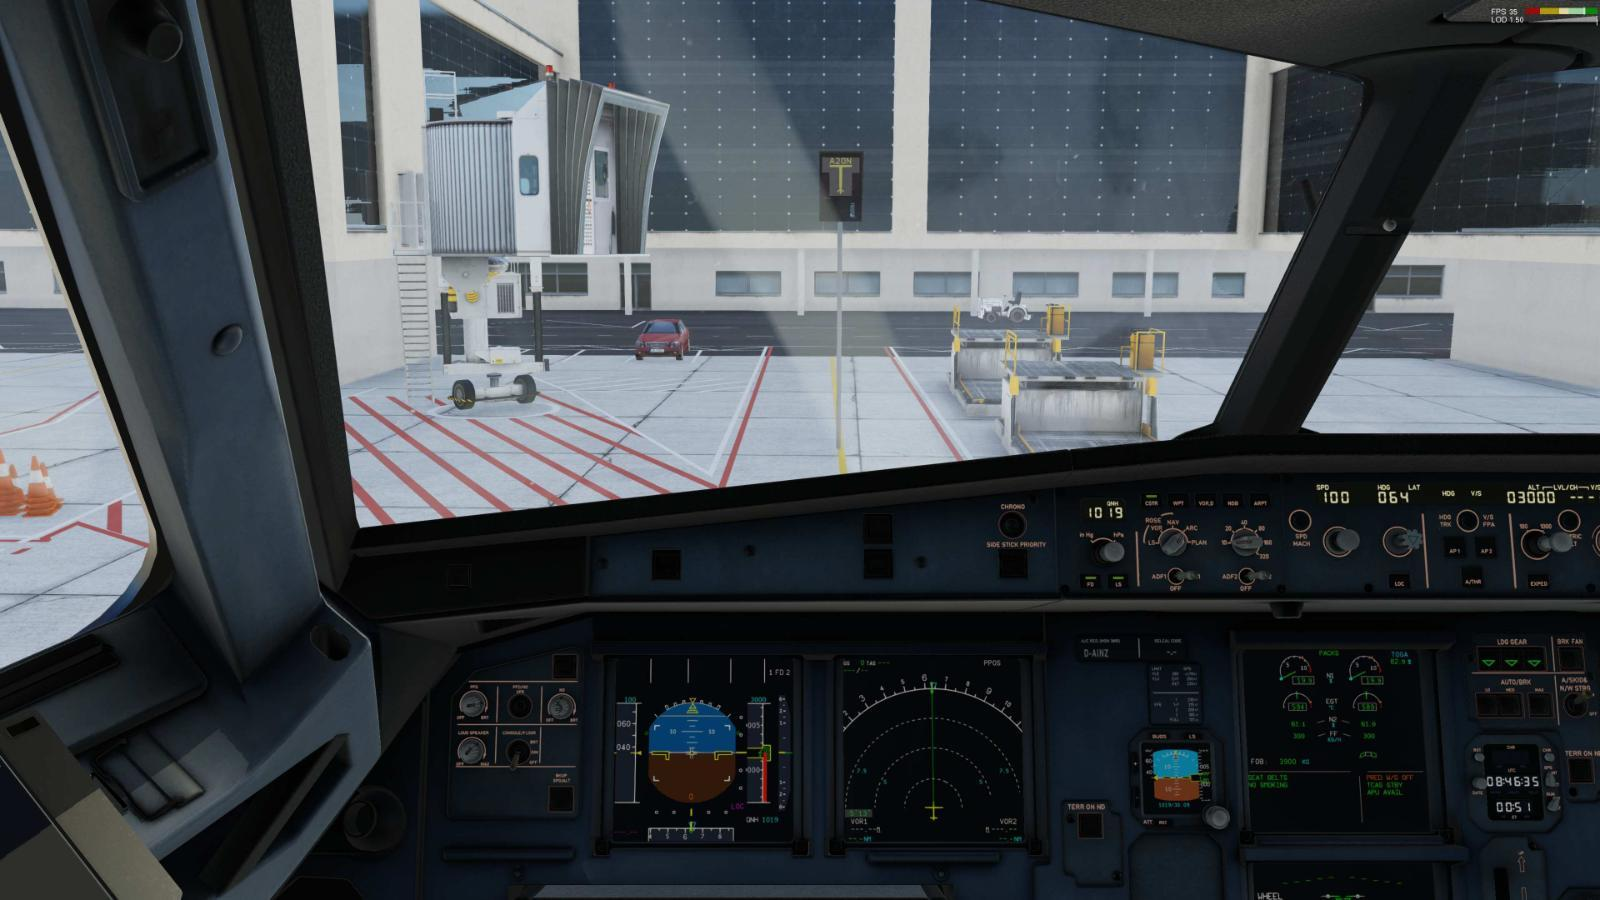
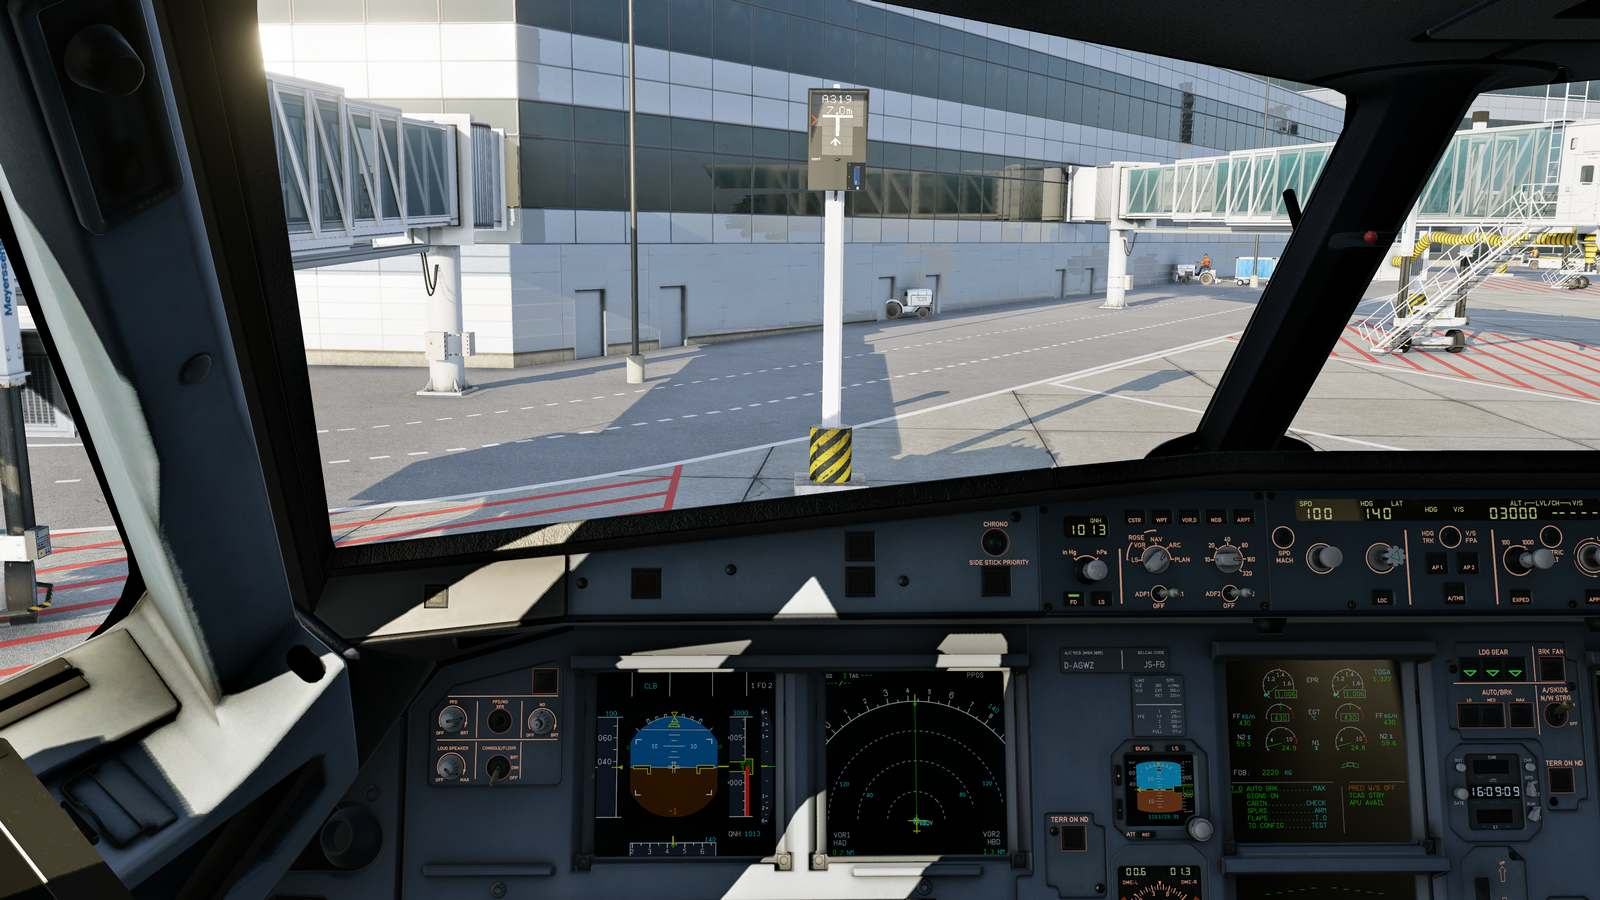
place pole_base obj

diff --git a/autodgs.cpp b/autodgs.cpp
@@ -67,7 +67,7 @@ XPLMDataRef percent_lights_dr, xp_version_dr, eng_running_dr, sin_wave_dr;
 XPLMDataRef vr_enabled_dr, ground_speed_dr;
 static XPLMDataRef zulu_time_minutes_dr, zulu_time_hours_dr;
 XPLMProbeRef probe_ref;
-XPLMObjectRef dgs_obj[2];
+XPLMObjectRef dgs_obj[2], pole_base_obj;
 
 float now;           // current timestamp
 int on_ground;
@@ -251,8 +251,7 @@ MenuCb([[maybe_unused]] void *menu_ref, void *item_ref)
 }
 
 // =========================== plugin entry points ===============================================
-PLUGIN_API int
-XPluginStart(char *outName, char *outSig, char *outDesc)
+PLUGIN_API int XPluginStart(char *outName, char *outSig, char *outDesc)
 {
     strcpy(outName, "AutoDGS " VERSION);
     strcpy(outSig,  "hotbso.AutoDGS");
@@ -304,7 +303,7 @@ XPluginStart(char *outName, char *outSig, char *outDesc)
     zulu_time_minutes_dr = XPLMFindDataRef("sim/cockpit2/clock_timer/zulu_time_minutes");
     zulu_time_hours_dr = XPLMFindDataRef("sim/cockpit2/clock_timer/zulu_time_hours");
 
-    // // these are served via instancing
+    // these are served via instancing
     for (int i = 0; i < DGS_DR_NUM; i++)
         XPLMRegisterDataAccessor(dgs_dlist_dr[i], xplmType_Float, 0, NULL, NULL, GetDgsFloat,
                                  NULL, NULL, NULL, NULL, NULL, NULL, NULL, NULL, NULL, (void *)0, 0);
@@ -335,13 +334,20 @@ XPluginStart(char *outName, char *outSig, char *outDesc)
     }
 
     for (int i = 0; i < 2; i++) {
-        std::string on = base_dir + "/resources/" + obj_name[i];
+        std::string on = base_dir + "resources/" + obj_name[i];
         dgs_obj[i] = XPLMLoadObject(on.c_str());
 
         if (dgs_obj[i] == NULL) {
             LogMsg("error loading obj: %s", on.c_str());
             return 0;
         }
+    }
+
+    std::string on = base_dir + "resources/pole_base.obj";
+    pole_base_obj = XPLMLoadObject(on.c_str());
+    if (pole_base_obj == NULL) {
+        LogMsg("error loading obj: %s", on.c_str());
+        return 0;
     }
 
     // own commands

diff --git a/airport.cpp b/airport.cpp
@@ -181,6 +181,7 @@ Stand::Stand(const AptStand& as, float elevation, int dgs_type, float dgs_dist) 
     drawinfo_.heading = as_.hdgt;
     drawinfo_.pitch = drawinfo_.roll = 0.0f;
     vdgs_inst_ref_ = nullptr;
+    pole_base_inst_ref_ = nullptr;
 
     marshaller_max_dist_ = kDgsMaxDist;
 
@@ -196,6 +197,8 @@ Stand::Stand(const AptStand& as, float elevation, int dgs_type, float dgs_dist) 
 Stand::~Stand() {
     if (vdgs_inst_ref_)
         XPLMDestroyInstance(vdgs_inst_ref_);
+    if (pole_base_inst_ref_)
+        XPLMDestroyInstance(pole_base_inst_ref_);
 }
 
 void Stand::SetDgsType(int dgs_type) {
@@ -213,11 +216,18 @@ void Stand::SetDgsType(int dgs_type) {
         if (vdgs_inst_ref_)
             XPLMDestroyInstance(vdgs_inst_ref_);
         vdgs_inst_ref_ = nullptr;
+
+        if (pole_base_inst_ref_)
+            XPLMDestroyInstance(pole_base_inst_ref_);
+        pole_base_inst_ref_ = nullptr;
+
         SetDgsDist();
     } else {
+        static const char* null_dlist[] = {nullptr};
         marshaller = nullptr;
-        SetDgsDist();
         vdgs_inst_ref_ = XPLMCreateInstance(dgs_obj[kVDGS], dgs_dlist_dr);
+        pole_base_inst_ref_ = XPLMCreateInstance(pole_base_obj, null_dlist);
+        SetDgsDist();
         SetIdle();
     }
 }
@@ -358,8 +368,11 @@ void Stand::SetDgsDist() {
     drawinfo_.x = probeinfo.locationX;
     drawinfo_.y = probeinfo.locationY;
     drawinfo_.z = probeinfo.locationZ;
-    if (dgs_type_ == kVDGS)
+    if (dgs_type_ == kVDGS) {
+        assert(pole_base_inst_ref_ != nullptr);
+        XPLMInstanceSetPosition(pole_base_inst_ref_, &drawinfo_, nullptr);
         drawinfo_.y += kVdgsDefaultHeight;
+    }
 }
 
 // adjust may be negative to move it closer

diff --git a/autodgs.h b/autodgs.h
@@ -135,7 +135,7 @@ extern XPLMDataRef ground_speed_dr;
 extern XPLMCommandRef cycle_dgs_cmdr, move_dgs_closer_cmdr, activate_cmdr,
     toggle_ui_cmdr, toggle_jetway_cmdr;
 extern XPLMProbeRef probe_ref;
-extern XPLMObjectRef dgs_obj[2];
+extern XPLMObjectRef dgs_obj[2], pole_base_obj;
 
 extern opmode_t operation_mode;
 extern float now;           // current timestamp

diff --git a/airport.h b/airport.h
@@ -50,7 +50,7 @@ class Stand {
     int dgs_type_;
     bool is_wet_;
     XPLMDrawInfo_t drawinfo_;
-    XPLMInstanceRef vdgs_inst_ref_;
+    XPLMInstanceRef vdgs_inst_ref_, pole_base_inst_ref_;
     float dgs_dist_;            // distance to dgs
     float marshaller_max_dist_; // max distance, actual can be lower according to PE
     void SetDgsDist();

diff --git a/README.md b/README.md
@@ -91,7 +91,9 @@ It's likely that this plane does not use the "beacon" datarefs in a standard way
 [Jonathan Harris (aka Marginal)](https://github.com/Marginal) for creating Autogate\
 [cxn0026](https://forums.x-plane.org/profile/121130-cxn0026) for explaining how Marshallers and VDGS really use guidance signals\
 [Papickx](https://forums.x-plane.org/profile/823983-papickx/) + @cxn0026 for providing better textures and day + night lighting\
-[Pierre](https://github.com/pierr3) for reworking the VDGS model and giving it much more precision and details
+[Pierre](https://github.com/pierr3) for reworking the VDGS model and giving it much more precision and details\
+[Designed by kues1 / Freepik](https://www.freepik.com) for a texture\
+[Designed by Kjpargeter / Freepik](https://www.freepik.com) for a texture
 
 ## License
 Please observe that this project is covered by various licenses.
@@ -100,6 +102,9 @@ Please observe that this project is covered by various licenses.
 -- copy of license remark from https://github.com/Marginal/AutoGate ---\
 The plugin code in the src directory is licensed under the GNU LGPL v2.1 license.\
 The rest of the kit is licensed under the Creative Commons Attribution license. In short, you can use any part of this kit (including the 3D objects and their textures) in original or modified form in a free or commerical scenery package, but you must give the author credit.
+
+### Textures of Freepik
+See https://www.freepik.com
 
 ### Contributions by hotbso:
 This is in parts a derived work from Autogate so the above mentioned licenses apply accordingly to the components of this project.\
